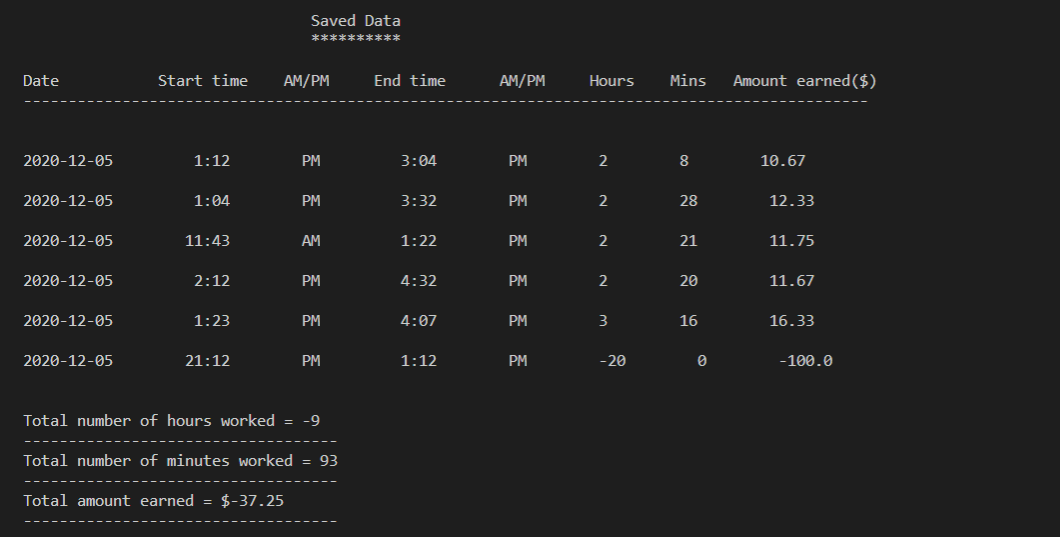
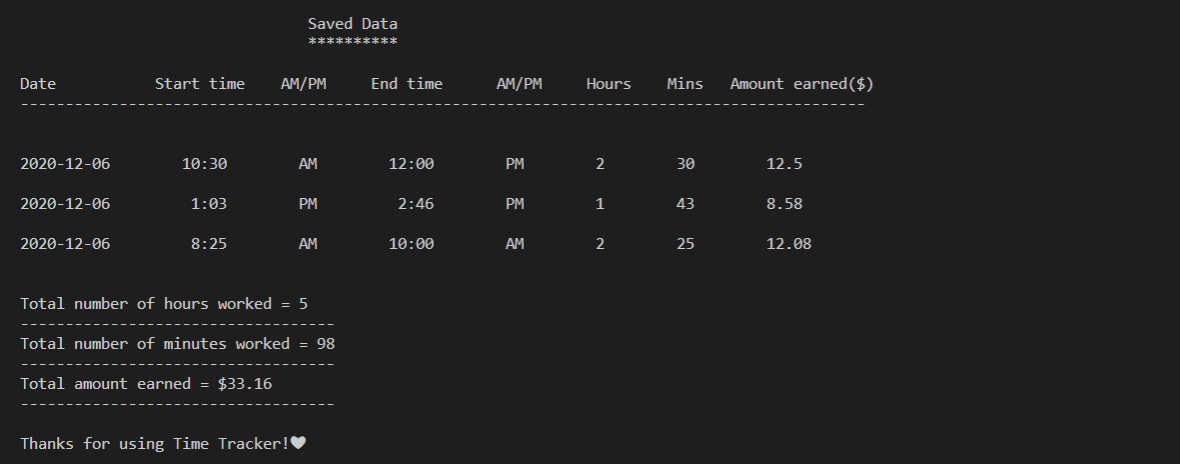
Reuploading files

diff --git a/Time Tracker/ttfunctions.py b/Time Tracker/ttfunctions.py
@@ -129,8 +129,11 @@ def start_tracking(date=date):
     elif (start_ampm.lower() == "am" and end_ampm.lower() == "pm") or ((start_ampm.lower() == "pm" and end_ampm.lower() == "am")):
         
         try:
-            # if starting hour is "AM" but ending hour is "PM"
-            total_hours = ((int(end_hour) + 12) - int(start_hour))
+            # if starting hour is "AM" but ending hour is "PM" or vice versa
+            if int(end_hour) == 12:
+                total_hours = ((int(end_hour)) - int(start_hour))
+            else:
+                total_hours = ((int(end_hour) + 12) - int(start_hour))
             total_min = diff_mins(start_min, end_min)
             converted_total_hours = (total_hours * 60)
             total_mins = (total_min + converted_total_hours)
